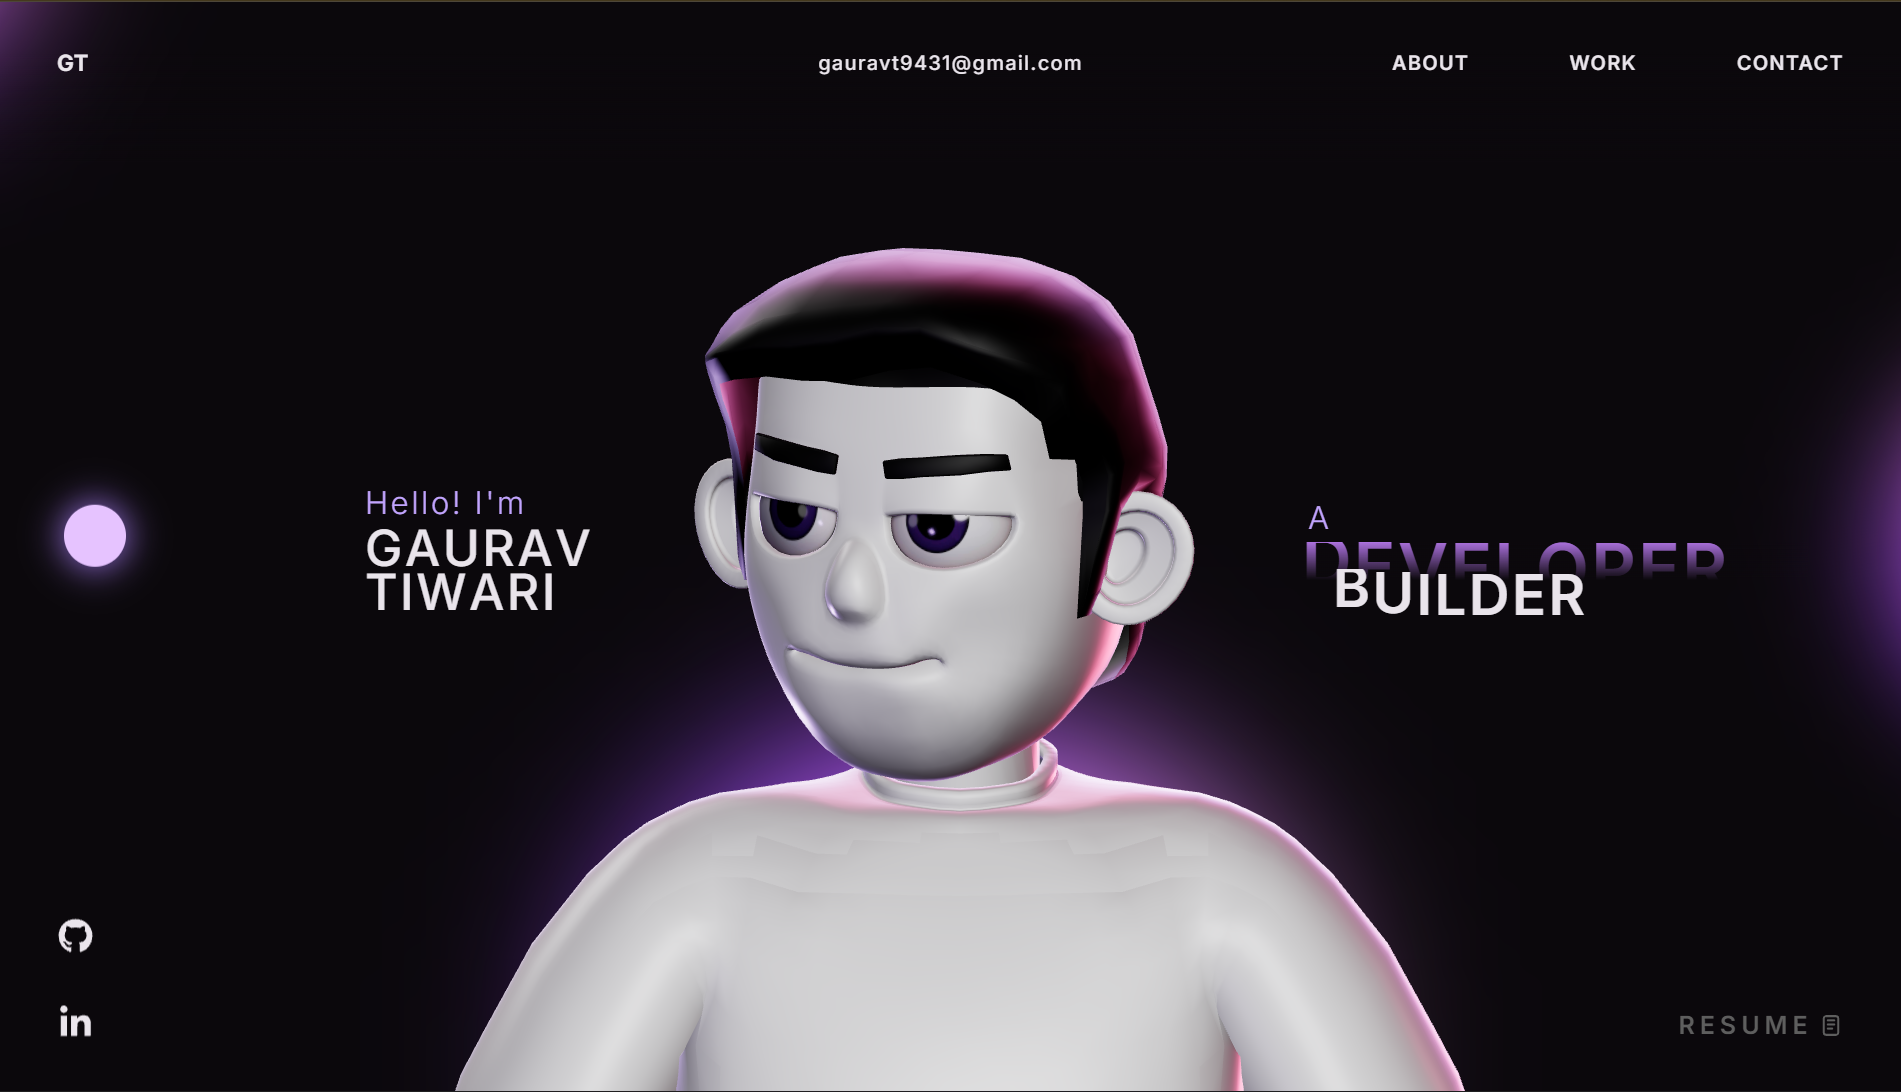
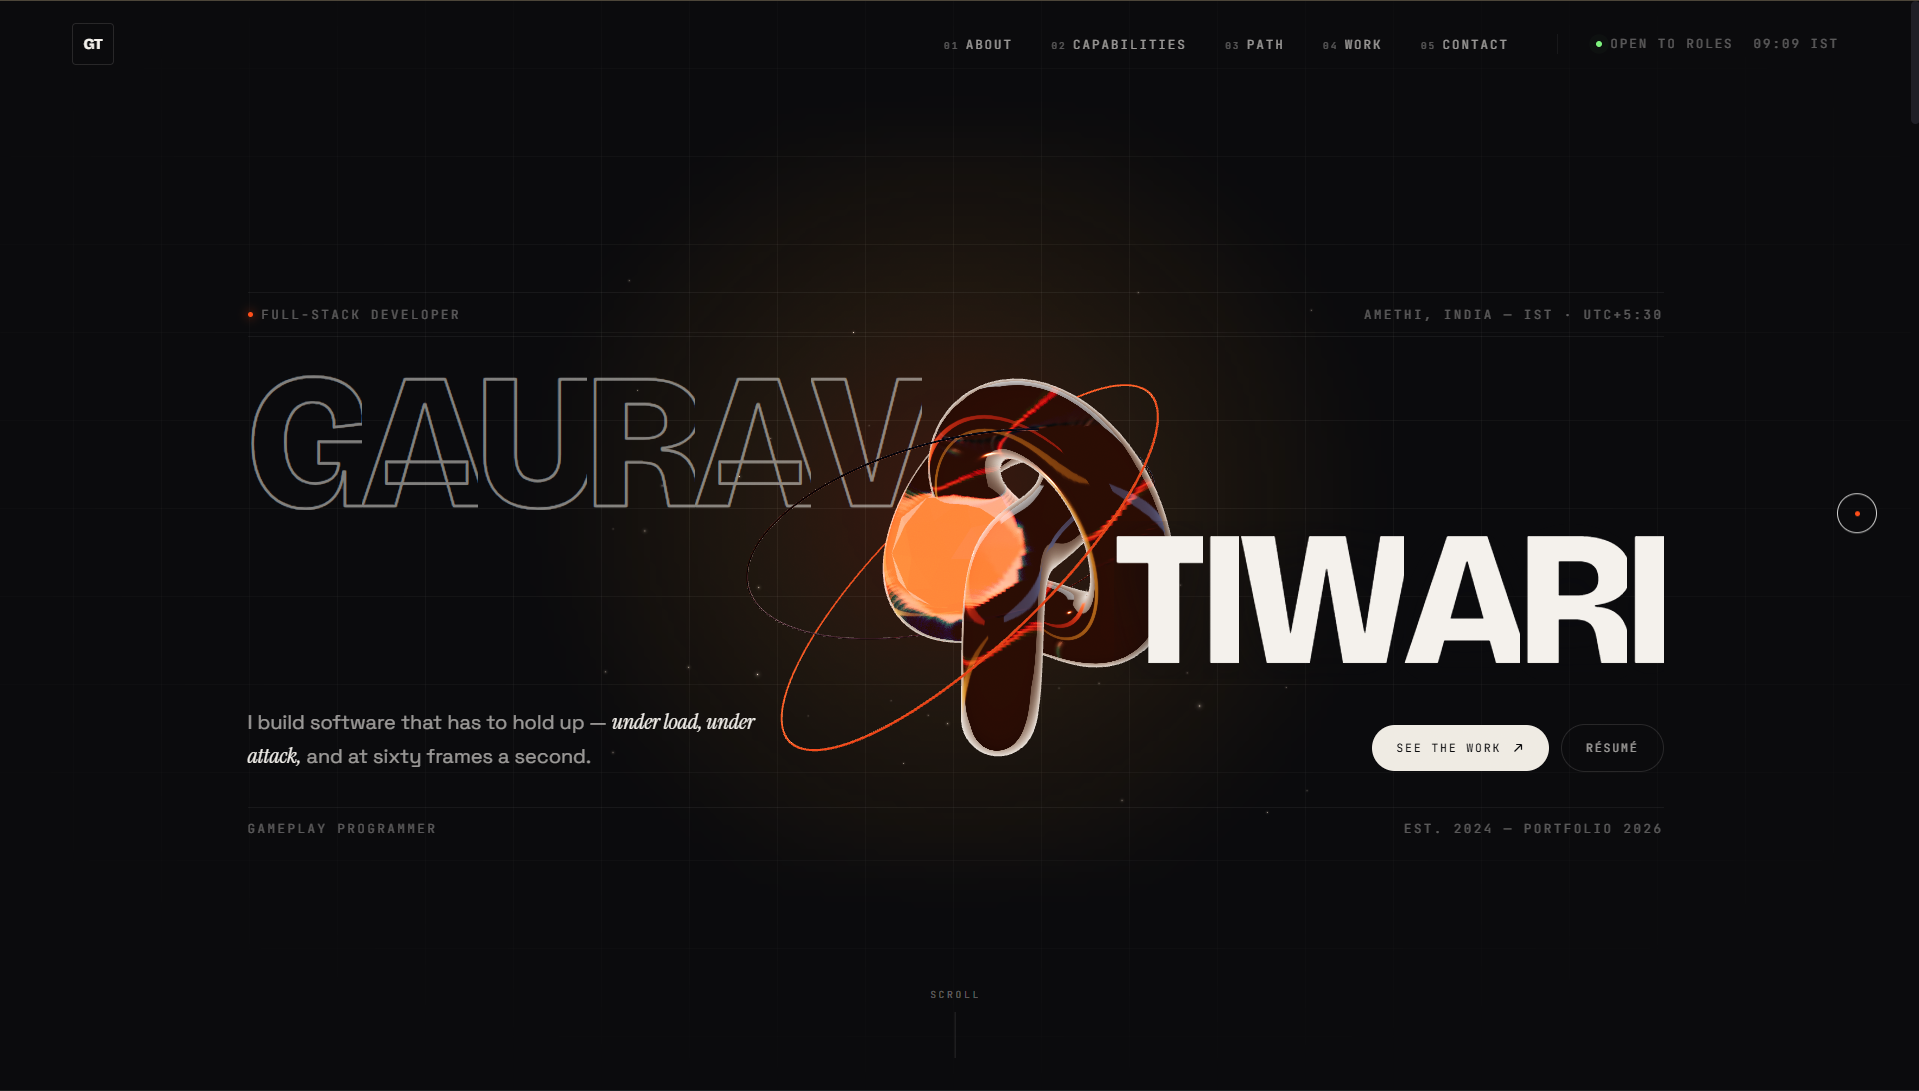
fix: stop work cards dimming while still in focus, and rework the glass
The reported bug: card 01 rendered at full dim while it was still the card
being read. GSAP was tweening `filter` from the card's computed `none`,
which has no numbers to interpolate against, so it snapped straight to
brightness(0.55) on the first scrubbed frame — while scale and yPercent
tweened correctly, which is why the card was dark but full size.

The recede now rides a .work-veil overlay's opacity instead. That
interpolates reliably, composites rather than repainting a large card with
an image every scroll frame, and the trigger window moved from
top bottom/top top to top 75%/top 5% so a card stays fully lit until the
next one actually covers it.

Hero artifact, from looking at it rendered:
- the knot read as black plastic — transmission refracts the scene, and an
  empty scene is black. Added an explicit near-black warm `background` plus
  a broad backdrop lightformer so form comes from specular reflection, and
  cut thickness 0.85 -> 0.5 with attenuationDistance 2.4 -> 3
- chromaticAberration 0.42 -> 0.2; the fringing read as a render bug
- core emissiveIntensity 3.4 -> 1.7; ACES was desaturating it to a flat
  cream wedge instead of anything molten
- group scaled to 0.82 and the canvas box reduced so the knot sits between
  the two name lines instead of swallowing them
- rings pulled in from 1.92/2.27 to 1.55/1.74 so they cage the knot rather
  than sprawling past it

diff --git a/src/components/three/Artifact.tsx b/src/components/three/Artifact.tsx
@@ -17,6 +17,11 @@ import { usePointerNDC } from "./usePointerNDC";
    caged by two counter-rotating chrome rings. Replaces the old avatar.
    ------------------------------------------------------------------------- */
 
+// What the transmission pass returns over empty scene. Kept near-black on
+// purpose: the knot's form reads from specular reflection off the
+// lightformers, and a bright value here flattens it into uniform haze.
+const BACKDROP = new THREE.Color("#150b07");
+
 function Rings() {
   const a = useRef<THREE.Mesh>(null);
   const b = useRef<THREE.Mesh>(null);
@@ -29,23 +34,25 @@ function Rings() {
 
   return (
     <>
+      {/* Radii kept just outside the knot (outer radius ~1.33) — wider and
+          they stop reading as a cage and start reading as stray lines. */}
       <mesh ref={a} rotation={[Math.PI / 2.6, 0.4, 0]}>
-        <torusGeometry args={[1.92, 0.0075, 6, 220]} />
+        <torusGeometry args={[1.55, 0.008, 6, 220]} />
         <meshStandardMaterial
-          color="#7c7c8a"
+          color="#b9b9c6"
           metalness={1}
-          roughness={0.22}
-          envMapIntensity={2.2}
+          roughness={0.18}
+          envMapIntensity={2.6}
         />
       </mesh>
-      <mesh ref={b} scale={1.18} rotation={[-Math.PI / 3.4, -0.55, 0.3]}>
-        <torusGeometry args={[1.92, 0.0075, 6, 220]} />
+      <mesh ref={b} scale={1.12} rotation={[-Math.PI / 3.4, -0.55, 0.3]}>
+        <torusGeometry args={[1.55, 0.006, 6, 220]} />
         <meshStandardMaterial
           color="#ff4d19"
           metalness={0.9}
           roughness={0.3}
           emissive="#ff4d19"
-          emissiveIntensity={0.55}
+          emissiveIntensity={0.9}
         />
       </mesh>
     </>
@@ -68,11 +75,13 @@ function Core() {
     <mesh ref={ref}>
       <icosahedronGeometry args={[0.62, 1]} />
       <meshStandardMaterial
-        color="#1a0700"
-        emissive="#ff5a1f"
-        emissiveIntensity={3.4}
-        roughness={0.35}
-        metalness={0.2}
+        color="#2b0a00"
+        emissive="#ff3d0d"
+        // ACES desaturates toward white as intensity climbs — 3.4 rendered
+        // the core as a flat cream wedge instead of anything molten.
+        emissiveIntensity={1.7}
+        roughness={0.4}
+        metalness={0.1}
         flatShading
       />
     </mesh>
@@ -119,17 +128,24 @@ function Knot({ lite }: { lite: boolean }) {
           samples={6}
           resolution={256}
           transmission={1}
-          thickness={0.85}
-          roughness={0.07}
-          ior={1.52}
-          chromaticAberration={0.42}
-          anisotropicBlur={0.35}
-          distortion={0.3}
-          distortionScale={0.4}
-          temporalDistortion={0.12}
+          // At 0.85 the attenuation swallowed the light and the knot went
+          // black plastic; at 0.3 it vanished. 0.5 keeps some body.
+          thickness={0.5}
+          roughness={0.04}
+          ior={1.5}
+          // 0.42 produced RGB fringing that read as a render bug.
+          chromaticAberration={0.2}
+          anisotropicBlur={0.15}
+          distortion={0.2}
+          distortionScale={0.3}
+          temporalDistortion={0.06}
           color="#ffffff"
-          attenuationColor="#ffb489"
-          attenuationDistance={2.4}
+          attenuationColor="#ffb27a"
+          attenuationDistance={3}
+          envMapIntensity={1.8}
+          // What the refraction samples where the scene is empty — without
+          // this the glass has only black to bend and goes opaque.
+          background={BACKDROP}
         />
       )}
     </mesh>
@@ -181,7 +197,7 @@ const Artifact = () => {
       }}
       onCreated={({ gl }) => {
         gl.toneMapping = THREE.ACESFilmicToneMapping;
-        gl.toneMappingExposure = 1.15;
+        gl.toneMappingExposure = 1.3;
       }}
     >
       <ambientLight intensity={0.35} />
@@ -192,10 +208,14 @@ const Artifact = () => {
         color="#ff6a2a"
       />
 
+      {/* scaled back so the knot sits between the two name lines instead of
+          swallowing them */}
       <Float speed={1.1} rotationIntensity={0.28} floatIntensity={0.55}>
-        <Knot lite={lite} />
-        <Core />
-        <Rings />
+        <group scale={0.82}>
+          <Knot lite={lite} />
+          <Core />
+          <Rings />
+        </group>
       </Float>
 
       {!lite && (
@@ -210,6 +230,15 @@ const Artifact = () => {
       )}
 
       <Environment resolution={256}>
+        {/* Broad panel directly behind the knot. The glass needs something
+            bright to bend; without it the refraction is all shadow. */}
+        <Lightformer
+          form="rect"
+          intensity={0.7}
+          position={[0, 0, -7]}
+          scale={[10, 8, 1]}
+          color="#ffd9c0"
+        />
         {/* key light overhead */}
         <Lightformer
           intensity={2.4}

diff --git a/src/components/Work.tsx b/src/components/Work.tsx
@@ -16,21 +16,27 @@ const Work = () => {
 
       // Cards stack via position:sticky — this just recedes the one below
       // as the next slides over it.
+      //
+      // The dimming rides an overlay's opacity rather than filter:brightness
+      // on the card: a card's computed filter starts as `none`, which GSAP
+      // can't interpolate from, so it would snap to full dim on the first
+      // frame. Opacity also composites instead of repainting every scroll
+      // frame.
       cards.forEach((card, i) => {
         const next = cards[i + 1];
         if (!next) return;
-        gsap.to(card, {
-          scale: 0.93,
-          yPercent: -3,
-          filter: "brightness(0.55)",
-          ease: "none",
-          scrollTrigger: {
-            trigger: next,
-            start: "top bottom",
-            end: "top top",
-            scrub: 0.4,
-          },
-        });
+
+        gsap
+          .timeline({
+            scrollTrigger: {
+              trigger: next,
+              start: "top 75%",
+              end: "top 5%",
+              scrub: 0.4,
+            },
+          })
+          .to(card, { scale: 0.93, yPercent: -3, ease: "none" }, 0)
+          .to(card.querySelector(".work-veil"), { opacity: 0.62, ease: "none" }, 0);
       });
 
       // Slow parallax drift on each screenshot inside its frame.
@@ -170,6 +176,8 @@ const Work = () => {
                 <img src={p.image} alt={`${p.title} interface`} loading="lazy" />
                 <span className="work-shot-frame" aria-hidden="true" />
               </a>
+
+              <span className="work-veil" aria-hidden="true" />
             </div>
           </article>
         ))}

diff --git a/src/components/styles/work.css b/src/components/styles/work.css
@@ -75,6 +75,16 @@
   );
 }
 
+/* Darkens a card as the next one slides over it. Driven by GSAP. */
+.work-veil {
+  position: absolute;
+  inset: 0;
+  z-index: 3;
+  background: var(--ink);
+  opacity: 0;
+  pointer-events: none;
+}
+
 /* ---- text side ---- */
 .work-side {
   display: flex;

diff --git a/src/components/styles/hero.css b/src/components/styles/hero.css
@@ -52,8 +52,8 @@
   left: 50%;
   top: 50%;
   z-index: 2;
-  width: min(880px, 96vw);
-  height: min(620px, 72vh);
+  width: min(720px, 84vw);
+  height: min(540px, 64vh);
   transform: translate(-50%, -50%);
   pointer-events: none;
 }
